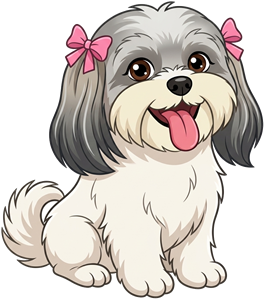
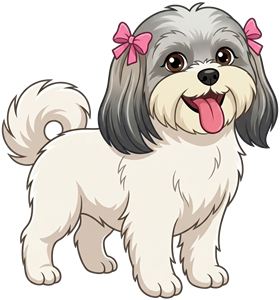
Nossa casinha: Maya em pé, andando com as quatro patas (desenho novo do dono)

diff --git a/ar/caes/movimento.js b/ar/caes/movimento.js
@@ -59,7 +59,7 @@ export function xf(a, t, tA, f, p0, sentada) {
 
 // movimento do corpo todo, já misturado com a ação anterior. Devolve [sx, sy, rot, subir (px), deslocar x (px)]
 export function transformar(d, H, saida = [0, 0, 0, 0, 0]) {
-  const sentada = d.cfg.raca === 'shihtzu', p0 = d.p ? d.p[0] : 0;
+  const sentada = !!d.cfg.sentada, p0 = d.p ? d.p[0] : 0; // sentada = desenho de cachorro sentado (anda pulando)
   const a = xf(d.acao, d.t, d.tA, d.fase, p0, sentada);
   if (d.mist < 1) {
     const b = xf(d.acaoAnt, d.t, d.tAnt, d.fase, 0, sentada), k = suave(d.mist);
@@ -89,7 +89,7 @@ const tmp = [0, 0];
 // ângulos (rad; + = sentido horário na tela). cab + = cabeça para baixo; rabo + = para cima; patas + = pé para trás;
 // j = dobra do joelho/pulso (+ = pé dobra para trás e para cima); k = encolher a pata
 function angulos(a, t, tA, f, d, o) {
-  const E = d.energia, al = d.alegria == null ? 0.5 : d.alegria, ph = d.sem || 0, u = f / TAU;
+  const E = d.energia, al = d.alegria == null ? 0.5 : d.alegria, ph = d.sem || 0, u = f / TAU, shih = d.cfg.raca === 'shihtzu';
   // parado: olhar que fica e muda de repente + microbalanço da respiração; orelha treme sozinha; rabo abana em rajadas
   const olhar = 0.07 * degrau(t, 2.3 + E, ph, 0.25) + 0.012 * S(t * 2.6);
   const trem = pulso(t, 1.7, ph + 3, 0.16, 0.22);
@@ -100,9 +100,9 @@ function angulos(a, t, tA, f, d, o) {
   switch (a) {
     case 'walk': {
       for (let i = 0; i < 4; i++) {
-        const frente = i < 2; passada(u + ANDAR[i], 0.62, frente ? 0.36 : 0.32, tmp);
+        const frente = i < 2; passada(u + ANDAR[i], 0.62, (frente ? 0.36 : 0.32) * (shih ? 0.75 : 1), tmp); // shih tzu: patas curtas, passo menor
         o['p' + i] = tmp[0] - (frente ? 0.1 * tmp[1] : 0);             // a da frente estica para a frente no alto do passo
-        o['j' + i] = tmp[1] * (frente ? 1.05 : 0.55);                  // dobra o pulso/jarrete ao subir: hackney na frente, trás discreto
+        o['j' + i] = tmp[1] * (shih ? (frente ? 0.55 : 0.45) : (frente ? 1.05 : 0.55)); // dobra ao subir: pinscher alto na frente (hackney); shih tzu macio
         o['k' + i] = 1 - tmp[1] * (frente ? 0.08 : 0.04);
       }
       o.cab = 0.035 * S(f * 2 + 0.9) + olhar * 0.4;                    // a cabeça acompanha as patas da frente (2 vezes por passada)

diff --git a/ar/caes/config.js b/ar/caes/config.js
@@ -31,16 +31,17 @@ export const CACHORROS = [
     },
   },
   {
-    id: 'maya', nome: 'Maya', artigo: 'a', sexo: 'F', raca: 'shihtzu', imagem: 'maya.png', // shih tzu com laços rosa, a maior
+    id: 'maya', nome: 'Maya', artigo: 'a', sexo: 'F', raca: 'shihtzu', imagem: 'maya.png', // shih tzu em pé com laços rosa, a maior
     tamanho: 80,
     energia: 0.35,        // calma
     voz: 0.95,
     corpo: { perna: 0.34 },
-    ossos: { // sentada: só cabeça, orelhas e rabo (as patas não se mexem; ela anda "pulando")
-      cabeca: { p: [150, 190], r: [40, -60, 330, 205], f: 18 },
-      orelhas: [{ p: [92, 70], r: [40, 40, 128, 190], f: 12 }, { p: [238, 50], r: [212, 10, 330, 175], f: 10 }],
-      rabo: { p: [55, 228], r: [-40, 175, 62, 270], f: 12 },
-      pernas: [{ p: [0, 0], r: [-10, -10, -5, -5], f: 1 }, { p: [0, 0], r: [-10, -10, -5, -5], f: 1 }, { p: [0, 0], r: [-10, -10, -5, -5], f: 1 }, { p: [0, 0], r: [-10, -10, -5, -5], f: 1 }],
+    ossos: { // em pé (imagem 280x300)
+      cabeca: { p: [184, 156], r: [95, -60, 330, 160], f: 16 },
+      orelhas: [{ p: [126, 44], r: [96, 40, 150, 160], f: 10 }, { p: [252, 33], r: [232, 25, 330, 150], f: 10 }],
+      rabo: { p: [75, 136], r: [-40, 70, 85, 165], f: 12 },
+      pernas: [{ p: [153, 177], r: [124, 180, 180, 400], f: 10 }, { p: [208, 172], r: [182, 178, 234, 400], f: 10 },
+        { p: [51, 177], r: [16, 177, 70, 400], f: 10 }, { p: [95, 180], r: [74, 182, 114, 400], f: 10 }],
     },
   },
 ];

diff --git a/CLAUDE.md b/CLAUDE.md
@@ -26,7 +26,7 @@ MOTORA é um PWA (página que funciona como app) para gestão de veículos e mot
 - **Gráfico de temperatura máxima (14/11/2026; SQL `supabase/2026-11-14-ar-temp-dia.sql`, já aplicado):** tabela `ar.temp_dia` (máxima, hora da máxima e mínima por dia, horário de Brasília), preenchida pelo gatilho `ar_device_temp` a cada estado da placa (só grava quando muda). `ar_temp_dias(p_dias)` (só master, até 60 dias). No app de fora, cartão "Temperatura máxima · últimos 7 dias" (`carregarGraf`/`desenharGraf`, SVG sem biblioteca, recarrega a cada 5 min; tocar numa barra mostra máxima/hora/mínima; linha vermelha tracejada = temperatura do automático, se ligado). Só existe no app de fora (o de casa não lê o banco). Histórico começa em 14/11/2026. **Filtro 7 dias | Mês | Ano** (‹ › para trocar de mês/ano): `ar_temp_periodo(p_de, p_ate)` (até 400 dias); Mês = uma barra por dia, Ano = uma barra por mês com a maior máxima do mês (`gFaixa`, `gItens`).
 - **Visual novo (14/11/2026, skill Impeccable, escolha do dono: padrão do app Casa do iPhone):** produto em `ar/PRODUCT.md`, direção em `ar/.impeccable/surfaces/index-html.md`. Modo escuro do iOS (fundo em degradê fixo, blocos translúcidos sem desfoque por desempenho, ligado = bloco branco, ação #0a84ff, temperatura #ff9f0a, frio #64d2ff), título grande, bloco "Ar-condicionado" (`#p`, `#pst`), linha − temperatura + (`.clima`), grupos Modo/Ventilação/Funções. Toque: só `transform` 80 ms. O app de casa (`web.h`) recebeu as mesmas cores na base e nos blocos.
 - **Histórico do quarto (14/11/2026; SQL `supabase/2026-11-14-ar-historico.sql`, já aplicado):** gatilho `ar_device_hist` (`ar.historico`, nunca derruba a sincronização): `ar.uso` (períodos de ar ligado, qualquer origem), `ar.leitura` (uma leitura a cada 5 min, 3 dias) e **aviso de quarto quente** (`ar.device.quente_lim`, padrão 28 °C pedido do dono; `master_alert` ao passar do limite, de novo só depois de cair 1 °C e 3 h). Funções `ar_uso_periodo`, `ar_24h`. Cartão "Histórico do quarto": 24 h | 7 dias | Mês | Ano e Temperatura | Ar ligado. **Lá fora (15/11/2026: só temperatura MEDIDA, nunca previsão, pedido do dono):** estação do aeroporto Santa Genoveva, Goiânia (METAR SBGO, aviationweather.gov, de hora em hora, sem chave). O `ar-aviso` grava em `ar.fora` (`ar_fora_salvar`) e o app lê por `ar_fora(de, ate)` (SQL `supabase/2026-11-15-ar-fora-real.sql`, já aplicado; histórico desde 31/10/2026): linha "Lá fora" embaixo do quarto, tracejado no 24 h e linha cinza tracejada com bolinhas (máxima medida do dia; hoje = até agora) nas barras. Checagem no verificar.mjs impede voltar a usar previsão. O app confere sozinho se há versão nova (o iPhone guarda a página por 10 min) e recarrega.
-- **Cachorros na tela (15/11/2026; SQL `supabase/2026-11-15-ar-caes.sql`, já aplicado; função `ar-caes`, `verify_jwt: false`):** três cachorros em desenho animado (2D, canvas, 30 qps) vivem sobre a tela do app de fora: **Elvis** (pinscher macho branco malhado, cabeça caramelo; o menor), **Belinha** (pinscher fêmea caramela; média) e **Maya** (shih tzu cinza e branca com laços rosa; a maior). A aparência é a dos desenhos que o dono enviou (15/11/2026): `ar/caes/img/elvis.png`, `belinha.png` e `maya.png` (recortados dos desenhos transparentes, olhando para a direita; originais em `dogs-preview/refs/desenhos`, fora do Git). O movimento é de boneco articulado (`ar/caes/malha.js`, WebGL): a imagem vira uma grade de triângulos e 12 articulações (cabeça, 2 orelhas, rabo, 4 patas com ombro/quadril e joelho/pulso, que dobram ao subir na passada; pontos e regiões em `ossos` de `ar/caes/config.js`, em pixels da imagem) puxam os pontos; `ar/caes/movimento.js` dá o ângulo de cada articulação por ação (andar, correr, latir, comer, dormir...) e o movimento do corpo todo (respirar, pulinho, achatar para deitar), com mistura de 0,25 s entre ações. **Movimento natural (revisão de 15/11/2026, pedido do dono, com base em estudos de marcha e nos padrões das raças):** andar = passada lateral de 4 tempos, cada pata ~62% do tempo no chão, volta rápida pelo ar encolhendo (`passada`); pinscher levanta alto as patas da frente (hackney), as de trás quase não; correr = galope com fase no ar; parado ele fica quieto e muda o olhar de repente (`degrau`), treme uma orelha (`pulso`), abana o rabo em rajadas (3 a 4 por segundo), ofega a ~5 por segundo; o ritmo dos passos é casado com a velocidade em `dogs3d.js` (`d.fase`). O Elvis não tem rabo (apagado do PNG). A Maya é uma imagem sentada: mexe cabeça, orelhas e rabo e anda pulando. Sem WebGL, `ar/caes/desenho.js` desenha a imagem inteira com o movimento do corpo. Para mudar o visual, troque o PNG; nome, tamanho e jeito ficam em `ar/caes/config.js`. Código em `ar/caes/` (ES modules): `config.js` (nomes, tamanhos, cores e marcas: é onde se ajusta), `desenho.js`, `animacoes.js`, `dogs3d.js` (motor: eventos, toque, comida e água; o 3D antigo ficou só como opção interna), `necessidades.js` (fome/sede/bexiga no `localStorage`, calculadas pelo tempo ao abrir), `avisos.js`, `iniciar.js` (liga depois do login e cuida dos botões em Ajustes → "Cachorros na tela": ligar/desligar, som dos latidos, avisos). Eles entram pelas bordas, latem, brincam de brigar, puxam um botão (`.clima button`, `#m/#f/#x button`, `#mimi`; o botão volta e a função nunca é acionada), fazem xixi, ofegam no calor (quarto > 28 °C ou lá fora > 30 °C sem ar), tremem no frio, deitam com o ar ligado e dormem das 22h às 6h (tocar acorda). Só o cachorro recebe toque. Barra 🍖 💧 no rodapé: arrastar para a tela. **Avisos com o app fechado:** `ar-caes` (cron `ar-caes` a cada 15 min, `call_edge`) calcula fome/sede pelo tempo (`logica.js`, testada em `.github/scripts/teste-ar-caes.mjs`; a cópia em `supabase/functions/ar-caes/` tem que ser igual à de `ar/caes/`, o `verificar.mjs` confere) e manda push pela tabela `public.ar_caes_push` (só a função acessa): máximo 1 aviso por cachorro e necessidade a cada 2 h, nunca das 22h às 7h, agrupa; tocar abre `./?jogo=1` (🍖 💧 piscam). Mesmas chaves VAPID do MOTORA; `ar/sw.js` entende `url` e `tag`. A prévia de desenvolvimento ficou em `dogs-preview/` (fora do Git; painel de depuração com a tecla D).
+- **Cachorros na tela (15/11/2026; SQL `supabase/2026-11-15-ar-caes.sql`, já aplicado; função `ar-caes`, `verify_jwt: false`):** três cachorros em desenho animado (2D, canvas, 30 qps) vivem sobre a tela do app de fora: **Elvis** (pinscher macho branco malhado, cabeça caramelo; o menor), **Belinha** (pinscher fêmea caramela; média) e **Maya** (shih tzu cinza e branca com laços rosa; a maior). A aparência é a dos desenhos que o dono enviou (15/11/2026): `ar/caes/img/elvis.png`, `belinha.png` e `maya.png` (recortados dos desenhos transparentes, olhando para a direita; originais em `dogs-preview/refs/desenhos`, fora do Git). O movimento é de boneco articulado (`ar/caes/malha.js`, WebGL): a imagem vira uma grade de triângulos e 12 articulações (cabeça, 2 orelhas, rabo, 4 patas com ombro/quadril e joelho/pulso, que dobram ao subir na passada; pontos e regiões em `ossos` de `ar/caes/config.js`, em pixels da imagem) puxam os pontos; `ar/caes/movimento.js` dá o ângulo de cada articulação por ação (andar, correr, latir, comer, dormir...) e o movimento do corpo todo (respirar, pulinho, achatar para deitar), com mistura de 0,25 s entre ações. **Movimento natural (revisão de 15/11/2026, pedido do dono, com base em estudos de marcha e nos padrões das raças):** andar = passada lateral de 4 tempos, cada pata ~62% do tempo no chão, volta rápida pelo ar encolhendo (`passada`); pinscher levanta alto as patas da frente (hackney), as de trás quase não; correr = galope com fase no ar; parado ele fica quieto e muda o olhar de repente (`degrau`), treme uma orelha (`pulso`), abana o rabo em rajadas (3 a 4 por segundo), ofega a ~5 por segundo; o ritmo dos passos é casado com a velocidade em `dogs3d.js` (`d.fase`). O Elvis não tem rabo (apagado do PNG). A Maya usa o desenho dela em pé (enviado pelo dono em 15/11/2026; original em `dogs-preview/refs/desenhos`) e anda mexendo as 4 patas, com passo macio e curto (sem passo alto, padrão da raça). Um desenho de cachorro sentado pode ser usado com `sentada: true` em config.js (anda pulando). Sem WebGL, `ar/caes/desenho.js` desenha a imagem inteira com o movimento do corpo. Para mudar o visual, troque o PNG; nome, tamanho e jeito ficam em `ar/caes/config.js`. Código em `ar/caes/` (ES modules): `config.js` (nomes, tamanhos, cores e marcas: é onde se ajusta), `desenho.js`, `animacoes.js`, `dogs3d.js` (motor: eventos, toque, comida e água; o 3D antigo ficou só como opção interna), `necessidades.js` (fome/sede/bexiga no `localStorage`, calculadas pelo tempo ao abrir), `avisos.js`, `iniciar.js` (liga depois do login e cuida dos botões em Ajustes → "Cachorros na tela": ligar/desligar, som dos latidos, avisos). Eles entram pelas bordas, latem, brincam de brigar, puxam um botão (`.clima button`, `#m/#f/#x button`, `#mimi`; o botão volta e a função nunca é acionada), fazem xixi, ofegam no calor (quarto > 28 °C ou lá fora > 30 °C sem ar), tremem no frio, deitam com o ar ligado e dormem das 22h às 6h (tocar acorda). Só o cachorro recebe toque. Barra 🍖 💧 no rodapé: arrastar para a tela. **Avisos com o app fechado:** `ar-caes` (cron `ar-caes` a cada 15 min, `call_edge`) calcula fome/sede pelo tempo (`logica.js`, testada em `.github/scripts/teste-ar-caes.mjs`; a cópia em `supabase/functions/ar-caes/` tem que ser igual à de `ar/caes/`, o `verificar.mjs` confere) e manda push pela tabela `public.ar_caes_push` (só a função acessa): máximo 1 aviso por cachorro e necessidade a cada 2 h, nunca das 22h às 7h, agrupa; tocar abre `./?jogo=1` (🍖 💧 piscam). Mesmas chaves VAPID do MOTORA; `ar/sw.js` entende `url` e `tag`. A prévia de desenvolvimento ficou em `dogs-preview/` (fora do Git; painel de depuração com a tecla D).
 - **Código da placa (13/11/2026):** `ar/firmware/gree-esp32/` (reescrito; o da versão 1 se perdeu). Guia em `ar/firmware/LEIA.md`. Versão atual 21 = `gree-v21.bin` e `gree-esp32-completo-v21.bin` (2 a 21 instaladas). **Versão 21 (15/11/2026):** a troca de faixa do automático passou a ser no máximo 1 por minuto (pedido do dono; antes 5 min). **Versão 20 (15/11/2026): lá fora mais frio = janela** (pedido do dono: não ligar o ar, só avisar). Cron `ar-tempo` (15 min) chama `ar-aviso` `{tempo:true}`: última medição do aeroporto (até 2 h) → `ar_fora_gravar` grava o comando `{fora: t}` (SQL `supabase/2026-11-15-ar-janela.sql`, já aplicado). Na placa vale 1 h (`temFora`, estado `fora`). Se o automático ia ligar e lá fora está 3 °C ou mais frio que o quarto (`foraMaisFrio` em `regras.h`, testada), não liga e põe `auto.jan`; o gatilho `ar_device_janela` manda "Abra a janela" pelo `ar-aviso` (1 a cada 2 h, `janela_em`). Quando o quarto chega na escolhida ou lá fora esquenta, volta ao normal. **Versão 19 (14/11/2026): o automático regula o ar** (pedido do dono): liga na faixa da distância quarto − escolhida e troca no máximo a cada 5 min, 1 min desde a versão 21 (`faixaDe`, `regraFaixa`, `tempFaixa`, `ventFaixa` em `regras.h`, testadas): 3 °C ou mais acima = 16° turbo ventilação 3; 1,5 a 3 = 18° ventilação 3; 0,5 a 1,5 = escolhida − 2 (não abaixo de 18) ventilação 2; perto = a escolhida ventilação 1. Mais fria só com 0,3 °C além do limite (menos bipes). Continua desligando em escolhida − 2. Mexer em temperatura, modo, ventilação, turbo ou "A mimi?" tira o ar do automático. Estado `auto.fx` = faixa; textos dos apps com `S.fw>=19`. **Versão 18 (14/11/2026): mais botões da TV** — a TV do dono é Sony (família 0 da busca, SIRC aparelho 1); tabela `TECLAS_SONY` (irdb + IRCC das Bravia) para Entrada, Menu/Início, OK, setas, Voltar (15 bits, 151/35), Sair, Netflix (15 bits, 26/124), Info, Último, Sleep e números. Botões novos na tela: setas com OK, Início, Voltar, Sair, Netflix; "TV/AV" virou "Entrada". Na AOC os botões sem código (255) avisam para ensinar. O `verificar.mjs` confere que todo botão Sony existe em `TECLAS_TV`. **Versão 17 (14/11/2026): barra de volume da TV** (bloco "TV AOC", `#tvv`): o app manda `{tvVol:N}` (arrastando, no máximo 1 por segundo); a placa guarda o volume que acha que a TV está (`tv_vol`, estado `tv.v`, alvo `tv.va`) e dá um toque a cada 200 ms. Na TV do dono o 1º toque com o volume escondido só mostra; com ele na tela (some 1 s depois) cada toque muda 1 (`volDepois` em `regras.h`, testado). Vol +/- também contam. `{tvVolZerar:true}` = 101 toques para baixo (botão Zerar em Ajustar botões da TV); `{tvVolDefinir:N}` só corrige o número. Começou no 0 (a TV estava no 0 em 14/11/2026). Gráfico: barra azul da temperatura de agora sobre a máxima de hoje quando está mais frio (7 dias e Mês). **Versão 16 (14/11/2026): conexão reaproveitada** — o `HTTPClient` da busca virou `static`: o destrutor do HTTPClient fecha a conexão (`stop`) mesmo com `setReuse`, então cada busca abria conexão segura nova (~3,3 s, 24 de 24 na versão 15). **Não voltar a criar o HTTPClient local na busca.** **Versão 15 (14/11/2026):** diário da busca no estado (`sy` = {ms: última, max, r: reusou a conexão, n: abriu nova}). **Versão 14 (14/11/2026):** busca de volta a cada 3 s, sempre: mantém a conexão segura aberta; com 10 s o servidor fechava e o cutucão esperava ~3 s por um novo aperto de mão TLS. **Não aumentar esse intervalo.** **Versão 13 (14/11/2026):** websocket próprio (RFC 6455 mínimo em cima do `WiFiClientSecure` `tlsRt`, funções `rtConectar`/`rtLer`/`rtQuadro`), porque a biblioteca WebSockets (versões 9 a 12) nunca conectou na placa; a biblioteca saiu do `verificar.yml`. Erros vão para `rtd.m`. **Versão 12 (14/11/2026):** a placa mesma tenta o websocket de novo a cada 20 s, fechando antes a conexão da busca (`tlsNuvem`) para sobrar memória; estado `hmax` = maior bloco livre (KB), `rtd.t` = tentativas. **Versão 11 (14/11/2026):** diário do websocket no estado (`rtd` = {c: conexões, q: quedas, a: cutucões recebidos, ok, m: última mensagem}) e ping de websocket a cada 15 s; investigação de quedas da conexão na versão 10. **Versão 10 (14/11/2026):** com o websocket ligado a busca de reserva vai a cada 10 s (sem ele, 3 s) e, depois de aplicar comandos, a placa sincroniza de novo na hora para o app ver o estado novo. Medido em 14/11/2026: antes da versão 9, comando levava 3,5 s em média até a placa. **Versão 9 (14/11/2026): comando na hora** — websocket sempre aberto no Realtime do Supabase (desde a versão 13, websocket próprio; a biblioteca WebSockets 2.7.2 das versões 9 a 12 não conectava), canal `ar-<24 hexa do sha256 da chave>` = `left(ar.device.key_hash, 24)`; o gatilho `ar_cmd_acorda` (SQL `supabase/2026-11-14-ar-acorda.sql`, já aplicado) manda um broadcast vazio a cada comando em `ar.cmd` e a placa chama `ar_device_sync` na hora (a busca a cada 3 s continua de reserva). Estado: `rt` (websocket ligado) e `heap` (KB livres). **Versão 8 (14/11/2026): "A mimi?" na placa** (`{mimi:true}`; `regraMimi` em `regras.h`, testada em `teste-ar-auto.mjs`). **Versão 7 (14/11/2026): o automático desliga 2 °C abaixo** (antes 1 °C; textos dos apps mudam com `S.fw>=7`). **Versão 6 (14/11/2026):** visual novo no app de casa e botão "A mimi?". **Versão 5 (14/11/2026): controle universal de TV** (86 famílias do Flipper Zero, botão "Achar minha TV" em Ajustar botões da TV). **Versão 4 (14/11/2026): controle da TV AOC comum** (NEC 0/189, botões aprendidos do controle original) e abas **Ar | TV** nos dois apps (bloco compartilhado "TV AOC"; detalhes em `ar/firmware/LEIA.md`). **Modo automático:** no horário, liga no Frio na temperatura escolhida quando o quarto está **acima** dela (versão 3, pedido do dono; nessa temperatura ou abaixo não liga) e **desliga em alvo − 2 °C (versão 7; antes − 1 °C), só se foi o automático que ligou** (ligar pelo app, controle, horário ou busca tira o ar do automático) e só dentro do horário (`regras.h`, teste `node .github/scripts/teste-ar-auto.mjs` no `verificar.yml`). O app de fora mostra o texto do desligar só com a placa na versão 2 (`S.fw>=2`) e o do "acima" só na 3 (`S.fw>=3`). Os blocos compartilhados de `web.h` e `ar/index.html` têm que ser iguais (o `verificar.mjs` confere). O `verificar.yml` também compila a placa (tarefa `placa-ar`). **Regra do dono (14/11/2026): sempre que sair uma versão nova da placa, atualize a placa** (aumente o `versao.json`, publique e mande `{"ota":"now"}` em `ar.cmd`; confira `fw` no estado).
 - **Quem ligou/desligou (14/11/2026; SQL `supabase/2026-11-14-ar-evento.sql`, já aplicado):** a cada mudança de `power`, `ar.avisa_ar` grava `ar.device.evento` = {power, origem app|auto|outro, em}; `ar_status` devolve; o bloco do ar no app de fora mostra "Desligado pelo automático às 18:20" / "Ligado pelo app às 18:37 · Frio" (`evTxt`; só quando o evento bate com o estado). Motivo: o dono viu "Desligado" sem saber que o automático tinha desligado.
 - **Botão "A mimi?" (14/11/2026):** nos dois apps, abaixo do bloco do ar: manda `{mimi:true}`: a placa (versão 8) liga no Frio 20 °C com turbo e ventilação 3; depois de 2 h sobe para 22° sem turbo e, a cada 5 min, volta a 20° se o quarto passar de 22 °C e sobe para 22° de novo quando cair a 21 °C (`regraMimi`, `cuidarMimi`; estado `mimi` = {f: fase, r: segundos até a fase 2}). Mexer no ar (ligar/desligar, temperatura, modo, ventilação, turbo) sai do "A mimi?". O desligar da TV em 2 h saiu do botão a pedido do dono (14/11/2026); o comando `tvDesligar` continua na placa. Fica roxo-aceso enquanto o "A mimi?" está ativo. Na Siri: "a mimi", "hora de dormir", "vou dormir" (`AMIMI` em `frase.js`).
